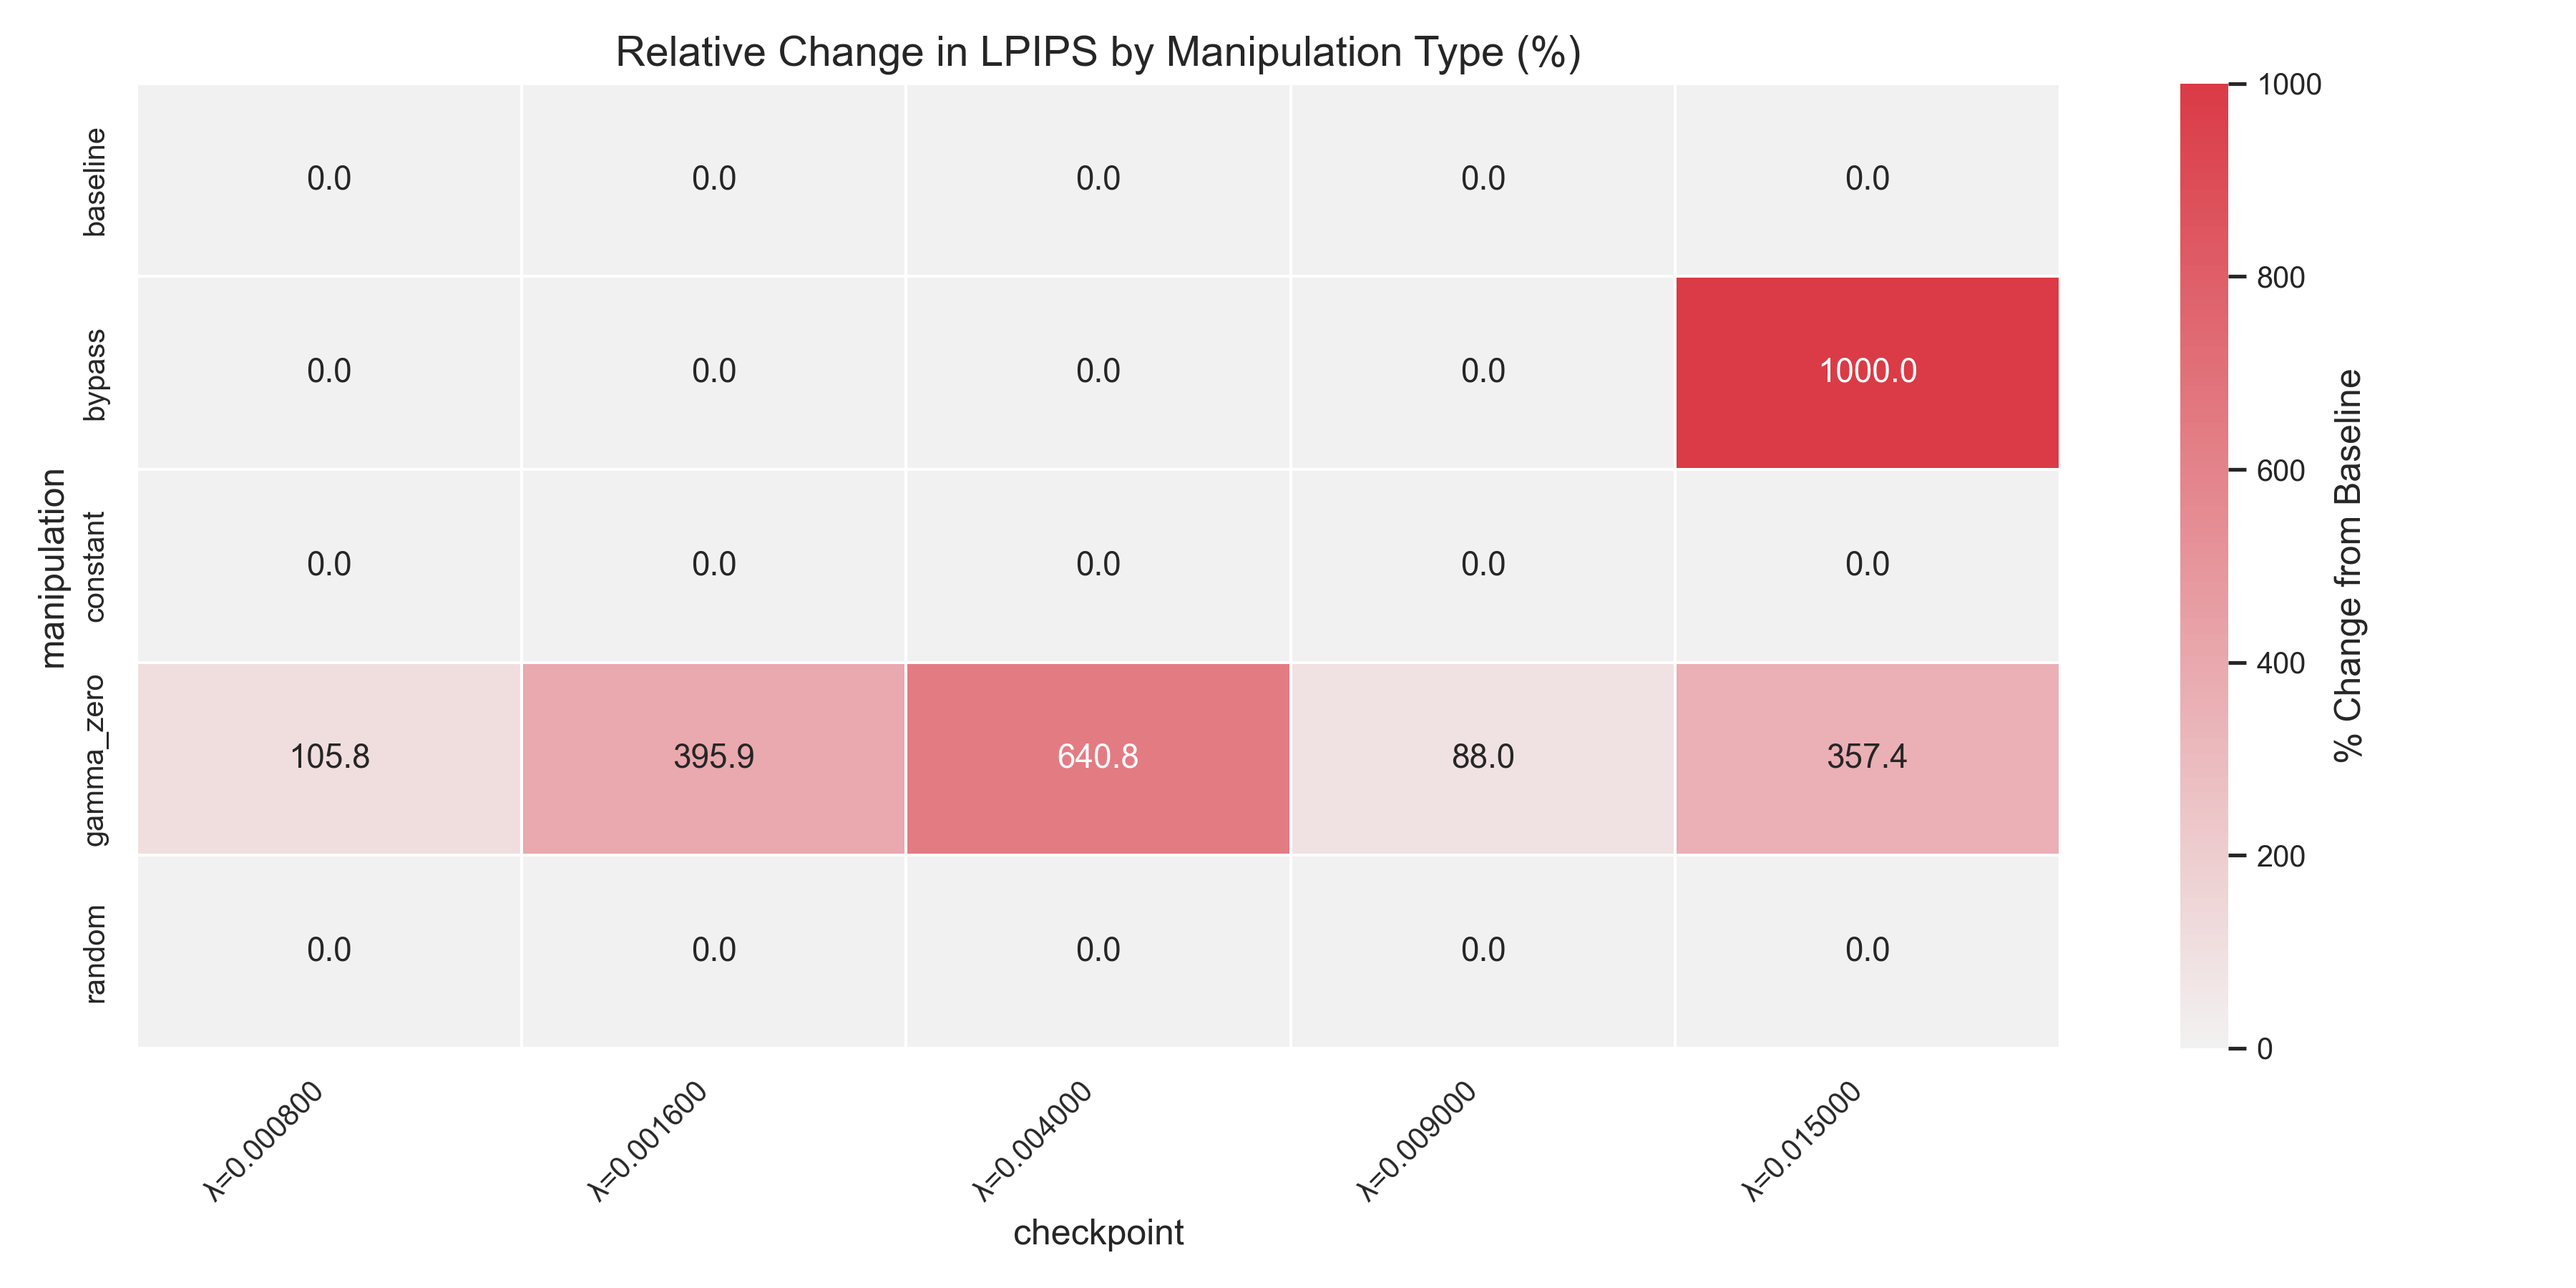
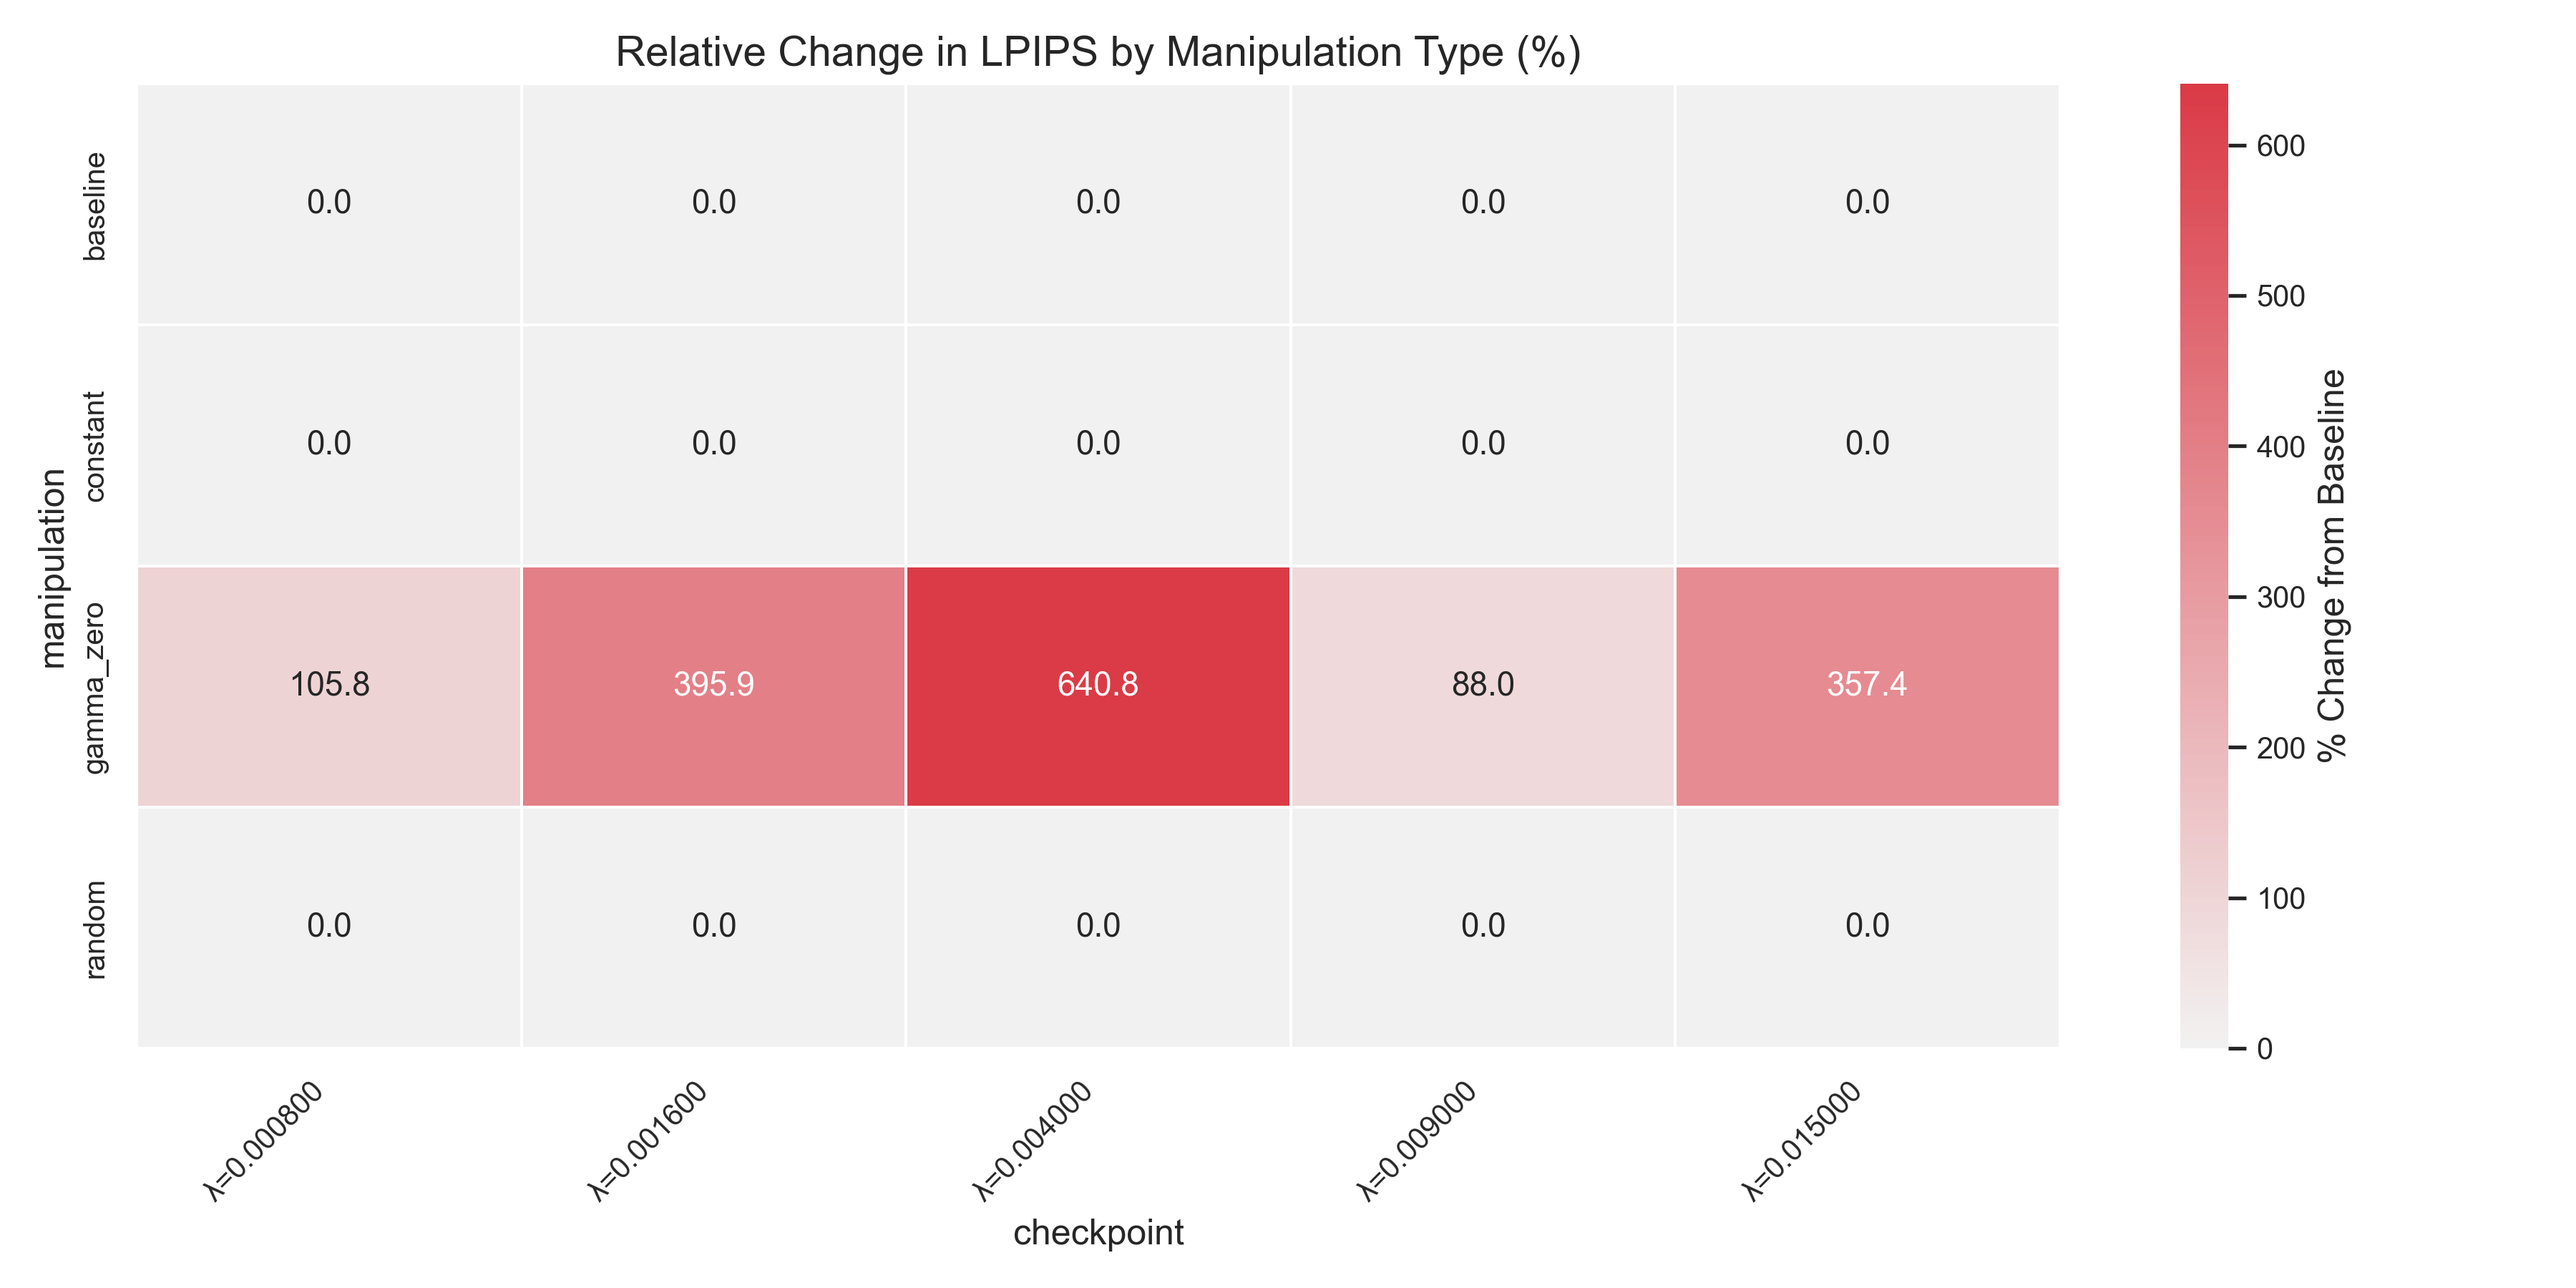
feat: exclude bypass manipulation from plots to improve visualization clarity

diff --git a/plot_attention_manipulation_results.py b/plot_attention_manipulation_results.py
@@ -64,8 +64,8 @@ def plot_metric_by_manipulation(df, metric, output_dir='./attention_manipulation
     """Create a grouped bar plot for a specific metric across different manipulation types"""
     plt.figure(figsize=(12, 7))
     
-    # Create a filtered version for visualization - clip extreme values
-    df_plot = df.copy()
+    # Filter out bypass manipulation and create copy for visualization
+    df_plot = df[df['manipulation'] != 'bypass'].copy()
     
     # For PSNR, clip negative values to ensure reasonable visualization
     if metric == 'psnr':
@@ -115,8 +115,11 @@ def plot_metric_by_manipulation(df, metric, output_dir='./attention_manipulation
 
 def plot_heatmap(df, metric, output_dir='./attention_manipulation_plots'):
     """Create a heatmap showing the relative impact of manipulations"""
+    # Filter out the bypass manipulation which has extreme values
+    df_filtered = df[df['manipulation'] != 'bypass']
+    
     # Create a pivot table
-    pivot = df.pivot_table(
+    pivot = df_filtered.pivot_table(
         index='manipulation', 
         columns='checkpoint', 
         values=metric
@@ -211,8 +214,9 @@ def plot_line_comparison(df, metric, output_dir='./attention_manipulation_plots'
         plt.title(f'Skipping BPP vs. BPP plot (redundant)')
         return
     
-    # Filter out extreme values
-    df_plot = df.copy()
+    # Filter out bypass manipulation and extreme values
+    df_plot = df[df['manipulation'] != 'bypass'].copy()
+    
     # Filter out the extremely high BPP values that mess up the scale
     df_plot = df_plot[df_plot['bpp'] < 10]
     
@@ -285,8 +289,11 @@ def plot_line_comparison(df, metric, output_dir='./attention_manipulation_plots'
 
 def create_radar_chart(df, output_dir='./attention_manipulation_plots'):
     """Create a radar chart to compare manipulations across all metrics"""
+    # Filter out bypass manipulation
+    df_filtered = df[df['manipulation'] != 'bypass']
+    
     # Average across all checkpoints
-    avg_by_manipulation = df.groupby('manipulation')[['psnr', 'ms_ssim', 'lpips', 'bpp']].mean()
+    avg_by_manipulation = df_filtered.groupby('manipulation')[['psnr', 'ms_ssim', 'lpips', 'bpp']].mean()
     
     # Normalize metrics to [0, 1] for radar chart
     # For LPIPS, lower is better, so we invert it
@@ -350,13 +357,21 @@ def create_radar_chart(df, output_dir='./attention_manipulation_plots'):
 
 def create_manipulation_summary(df, output_dir='./attention_manipulation_plots'):
     """Create a summary visualization showing the overall impact of manipulations"""
+    # Filter out bypass manipulation which distorts the visualization
+    df_filtered = df[df['manipulation'] != 'bypass']
+    
     # Calculate percentage difference from baseline for each checkpoint and metric
     metrics = ['psnr', 'ms_ssim', 'lpips', 'bpp']
     summary_data = []
     
-    for checkpoint in df['checkpoint'].unique():
-        checkpoint_data = df[df['checkpoint'] == checkpoint]
-        baseline = checkpoint_data[checkpoint_data['manipulation'] == 'baseline'].iloc[0]
+    for checkpoint in df_filtered['checkpoint'].unique():
+        checkpoint_data = df_filtered[df_filtered['checkpoint'] == checkpoint]
+        baseline_rows = checkpoint_data[checkpoint_data['manipulation'] == 'baseline']
+        
+        if len(baseline_rows) == 0:
+            continue
+            
+        baseline = baseline_rows.iloc[0]
         
         for _, row in checkpoint_data.iterrows():
             if row['manipulation'] != 'baseline':
@@ -423,11 +438,17 @@ def create_manipulation_summary(df, output_dir='./attention_manipulation_plots')
     # Add horizontal line at y=0
     for ax in g.axes.flat:
         ax.axhline(y=0, color='gray', linestyle='--', alpha=0.7)
+        
+        # Set xticks first, then set xticklabels to avoid warning
+        xticks = range(len(ax.get_xticklabels()))
+        ax.set_xticks(xticks)
         ax.set_xticklabels(ax.get_xticklabels(), rotation=45, ha='right')
         
-        # Remove duplicate legends
+        # Remove duplicate legends - safely check if legend exists first
         if ax.get_subplotspec().colspan.start != 0:
-            ax.get_legend().remove()
+            legend = ax.get_legend()
+            if legend is not None:
+                legend.remove()
     
     g.fig.suptitle('Impact of Attention Manipulations (% Change from Baseline)', fontsize=16)
     plt.tight_layout()
